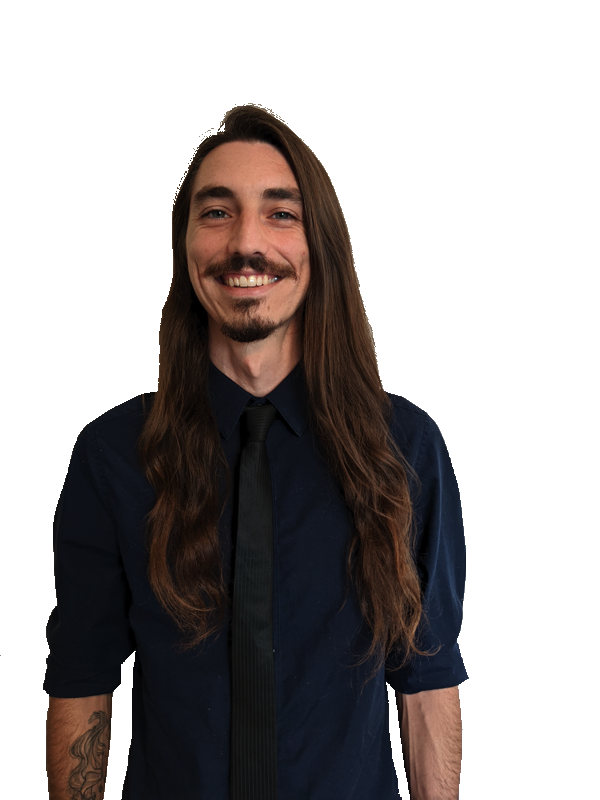
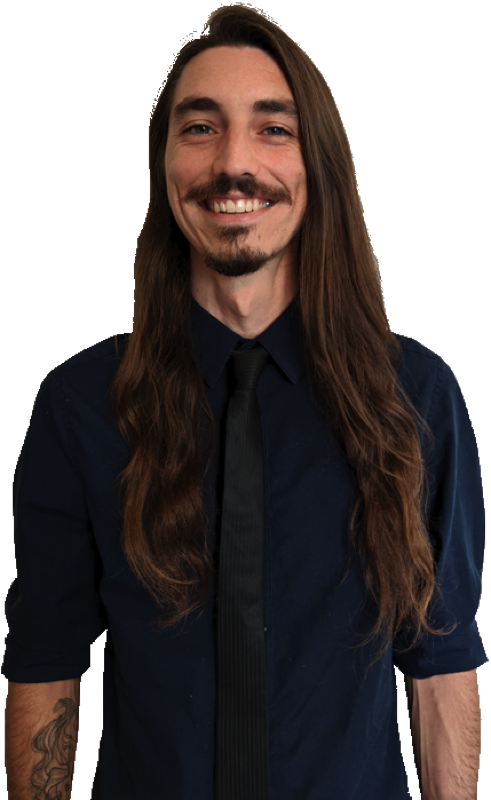
adjusted new photo

diff --git a/perport.css b/perport.css
@@ -331,8 +331,9 @@ body {
     margin: 1rem 0;
 }
 
-.closingP {
+#closingP {
     width: 100%;
+    padding-top: 2rem;
     text-align: right;
 }
 
@@ -436,14 +437,15 @@ body {
     position: absolute;
     bottom: 0;
     left: 0;
-    height: 50%;
+    height: 45%;
     width: 60%;
     background-image: url("images/PortfolioPhotoCutout.png");
     background-size: contain;
     background-repeat: no-repeat;
     background-position: bottom;
-    clip-path: polygon(36% 1%, 55% 1%, 78% 34%, 100% 70%, 100% 100%, 0 100%, 0% 60%, 20% 34%);
+    clip-path: polygon(40% 0%, 60% 0%, 75% 35%, 90% 50%, 90% 100%, 10% 100%, 10% 50%, 25% 35%);
     cursor: pointer;
+    z-index: 10;
 }
 
 #mobile-footer {
@@ -1292,8 +1294,8 @@ main h1:hover span:nth-child(even) {
     position: fixed;
     height: 20rem;
     z-index: 2;
-    right: -1rem;
-    bottom: -1rem;
+    right: 1.5rem;
+    bottom: -3rem;
 }
 
 #copyright {
@@ -1376,17 +1378,17 @@ main h1:hover span:nth-child(even) {
 
 #email {
     right: 4.5rem;
-    bottom: 17rem;
+    bottom: 17.5rem;
 }
 
 #linkedin {
     right: 3.25rem;
-    bottom: 22rem;
+    bottom: 22.5rem;
 }
 
 #github {
     right: 4rem;
-    bottom: 27rem;
+    bottom: 27.5rem;
 }
 /* rug ---------------------------------------- */
 #rug {

diff --git a/script.js b/script.js
@@ -67,7 +67,7 @@ const helloInfo = `
         <br>
         Thanks for visiting!
     </p>
-    <p class='closingP'>☕</p>
+    <p id='closingP'>☕</p>
 `;
 
 // education info ---------------------------------
@@ -136,7 +136,7 @@ const educationInfo = `
         I am a self-taught musician of many instruments, gardener, and parent.
     </p>
 
-    <p class='closingP'>☕</p>
+    <p id='closingP'>☕</p>
 `;
 
 // experience info --------------------------------
@@ -216,7 +216,7 @@ const experienceInfo = `
         <br>- Atlanta Bread Co.
     </p>
 
-    <p class='closingP'>☕</p>
+    <p id='closingP'>☕</p>
 `;
 
 // more info --------------------------------------
@@ -288,7 +288,7 @@ const moreInfo = `
     <p class='fineprint'>
         * Tech logos from <a href='https://devicon.dev/'>Devicon</a>
     </p>
-    <p class='closingP'>☕</p>
+    <p id='closingP'>☕</p>
 `;
 
 // info map ---------------------------------------

diff --git a/index.html b/index.html
@@ -40,7 +40,7 @@ Composer: Brandon Rimes -->
                     <br>
                     Thanks for visiting!
                 </p>
-                <p class='closingP'>☕</p>
+                <p id='closingP'>☕</p>
             </article>
             <article id="infos">
                 <div id="education" class="infos">
